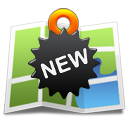
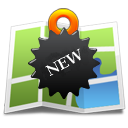
New background and button picture.

Changed region(s): [[0.3125, 0.375, 0.6875, 0.625]]

diff --git a/Client/routesavedialog.cpp b/Client/routesavedialog.cpp
@@ -25,12 +25,12 @@ RouteSaveDialog::RouteSaveDialog(QWidget *parent) :
     //Button settings
     buttonStatus = true;
     pixmapRouteStop = new QPixmap("Graphics/route_stop.png");
-    pixmapRoutePlay = new QPixmap("Graphics/route_play.png");
+    pixmapRouteStart = new QPixmap("Graphics/route_start.png");
     iconRouteStop = new QIcon(*pixmapRouteStop);
-    iconRoutePlay = new QIcon(*pixmapRoutePlay);
+    iconRouteStart = new QIcon(*pixmapRouteStart);
     QSize iconSize(125, 125);
     ui->buttonRouteStartStop->setIconSize(iconSize);
-    ui->buttonRouteStartStop->setIcon(*iconRoutePlay);
+    ui->buttonRouteStartStop->setIcon(*iconRouteStart);
     ui->buttonRouteStartStop->setAutoFillBackground(true);
     ui->buttonRouteStartStop->setStyleSheet("background-color: rgb(0, 0, 0); color: rgb(255, 255, 255)");
 
@@ -70,9 +70,9 @@ RouteSaveDialog::~RouteSaveDialog()
     delete gpsData;
     delete routeDialog;
     delete pixmapRouteStop;
-    delete pixmapRoutePlay;
+    delete pixmapRouteStart;
     delete iconRouteStop;
-    delete iconRoutePlay;
+    delete iconRouteStart;
 }
 
 void RouteSaveDialog::changeEvent(QEvent *e)
@@ -103,7 +103,7 @@ void RouteSaveDialog::on_buttonRouteStartStop_clicked()
     else
     {
         buttonStatus = true;
-        ui->buttonRouteStartStop->setIcon(*iconRoutePlay);
+        ui->buttonRouteStartStop->setIcon(*iconRouteStart);
 
         //Satellite picture and label
         ui->labelRouteSatelliteStatus->setText("Searching satellite");

diff --git a/Client/accelerationstart.cpp b/Client/accelerationstart.cpp
@@ -23,6 +23,12 @@ accelerationstart::accelerationstart(QWidget *parent) :
     ui->categorComboBox->addItem("0 - 20 km/h",20);
     ui->categorComboBox->addItem("0 - 40 km/h");
     ui->categorComboBox->addItem("0 - 100 km/h");
+
+    //Button settings
+    ui->buttonCalib->setAutoFillBackground(true);
+    ui->buttonCalib->setStyleSheet("background-color: rgb(0, 0, 0); color: rgb(255, 255, 255)");
+    ui->buttonStart->setAutoFillBackground(true);
+    ui->buttonStart->setStyleSheet("background-color: rgb(0, 0, 0); color: rgb(255, 255, 255)");
 }
 
 accelerationstart::~accelerationstart()

diff --git a/Client/topresultdialog.cpp b/Client/topresultdialog.cpp
@@ -20,6 +20,10 @@ TopResultDialog::TopResultDialog(QWidget *parent) :
 
     //Set the amount of requested top results here, untill there is user input
     setLimitNr(10);
+
+    //Button settings
+    ui->buttonTopRefresh->setAutoFillBackground(true);
+    ui->buttonTopRefresh->setStyleSheet("background-color: rgb(0, 0, 0); color: rgb(255, 255, 255)");
 }
 
 TopResultDialog::~TopResultDialog()

diff --git a/Client/routesavedialog.h b/Client/routesavedialog.h
@@ -40,9 +40,9 @@ private:
     RouteDialog *routeDialog;
     QString gpsSpeed;
     QPixmap *pixmapRouteStop;
-    QPixmap *pixmapRoutePlay;
+    QPixmap *pixmapRouteStart;
     QIcon *iconRouteStop;
-    QIcon *iconRoutePlay;
+    QIcon *iconRouteStart;
     bool buttonStatus;
 
 private slots:
